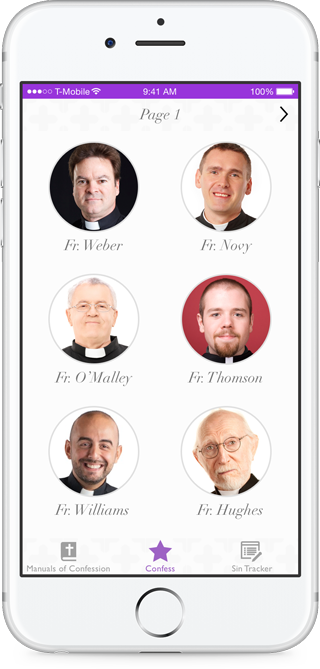
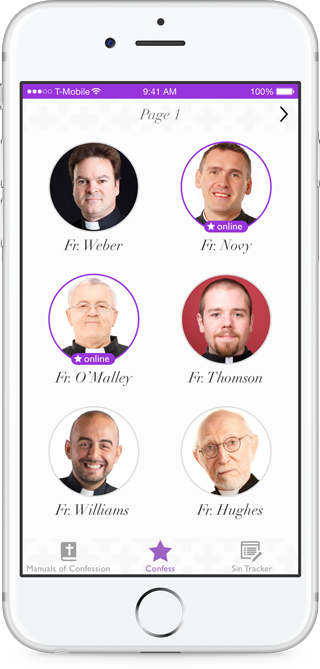
add privacy screen, update pick a priest

diff --git a/index.html b/index.html
@@ -76,11 +76,17 @@
   <div class="overlay" data-0="background-position:0px 0px;" data-500="background-position:0px -250px;"></div>
   <div class="container">
     <div class="row flexit vert-center">
-      <div class="col-md-6">
-
+      <div class="col-md-6 social text-center">
+          <!-- Share</p> -->
         <!--social media-->
-          <div class="fb-share-button" data-href="http://cler.gy" data-layout="button"></div>
-          <a class="twitter-share-button" data-text="http://cler.gy" href="https://twitter.com/share" data-count="none"></a>
+          <!-- <div class="fb-share-button" data-href="http://cler.gy" data-layout="button"></div> -->
+          <!-- <a class="twitter-share-button" data-text="http://cler.gy" href="https://twitter.com/share" data-count="none"></a> -->
+          <li><a href="test" target="_blank"><i class="fa fa-twitter-square"></i></a></li>
+          <li><a href="test" target="https://www.facebook.com/dialog/share?
+  app_id=145634995501895
+  &amp;display=popup
+  &amp;href=http://cler.gy
+  &amp;redirect_uri=http://cler.gy"><i class="fa fa-facebook-square"></i></a></li>
         <!--social media end-->
 
       </div>
@@ -88,9 +94,15 @@
 
         <!--social-->
         <div class="social text-center">
+            <!-- Social<p> -->
           <ul>
-            <li><a href="https://twitter.com/clergyapp" target="_blank"><i class="fa fa-twitter"></i></a></li>
+            <!-- <div class="flexit vertcolumnsflex"> -->
+                <li><a href="https://twitter.com/clergyapp" target="_blank"><i class="fa fa-twitter"></i></a></li>
+                <!-- <a>Twitter</a> -->
+            <!-- </div> -->
+            <!-- <li><a href="test" target="_blank"><i class="fa fa-twitter-square"></i></a></li> -->
             <li><a href="https://www.facebook.com/clergyapp" target="_blank"><i class="fa fa-facebook"></i></a></li>
+            <!-- <li><a href="test" target="_blank"><i class="fa fa-facebook-square"></i></a></li> -->
           </ul>
         </div>
         <!--social end-->
@@ -134,7 +146,7 @@
 
                                     <div class="text_align_right">
                                         <h4 class="small_margins">Confess Instantly</h4>
-                                        <p>We'll connect you to a priest at your convinience, 24 hours a day.</p>
+                                        <p>We'll connect you to a priest at your convenience, 24 hours a day, 7 days a week.</p>
                                     </div>
 
                                     <div class="dropcaps_right"><div class="icoall icovideo"></div></div>
@@ -210,11 +222,11 @@
                                 <!--begin features_item -->
                                 <div class="features_item flexit">
 
-                                    <div class="dropcaps_left"><div class="icoall icostar"></div></div>
+                                    <div class="dropcaps_left"><div class="icoall privacy-screen"></div></div>
 
                                     <div class="text_align_left">
-                                        <h4 class="small_margins">Achievements</h4>
-                                        <p>Become a better Catholic! Earn awards and for consistent confessions.</p>
+                                        <h4 class="small_margins">Digifessional&trade; Screen</h4>
+                                        <p>Our optional Digifessional&trade; screen can overlay the video stream to help to protect your privacy.</p>
                                     </div>
 
                                 </div>
@@ -250,8 +262,8 @@
       <div class="col-md-6 col-md-push-6 text-center"> <img src="img/manualsOfConfessionOnDevice.png" alt="feature" class="wow fadeInRight" data-no-retina data-wow-offset="250"> </div>
       <div class="col-md-6 col-md-pull-6 sideby-feat">
         <article>
-          <h4>Get better at confession</h4>
-          <p>Lorem ipsum dolor sit amet, consectetur adipiscing elit. Suspendisse rutrum eleifend arcu sit amet hendrerit. Etiam tempor ante ac ipsum finibus, at consectetur urna tristique. Nulla nec lacinia velit. </p>
+          <h4>Get Better at Confession</h4>
+          <p>Whether you're a regularly practicing Catholic, or new to the church, our Manuals of Confession will guide you through the sacrement - making it easier to remember what to say, and when to say it.</p>
         </article>
       </div>
     </div>

diff --git a/css/main.css b/css/main.css
@@ -974,6 +974,14 @@ span.features_title_small{
 	background-image:url('../img/icons/star-white.svg');
 }
 
+.privacy-screen {
+    background-image:url('../img/icons/screen.svg');
+}
+
+.features_item:hover .privacy-screen {
+    background-image:url('../img/icons/screen-white.svg');
+}
+
 
 
 
